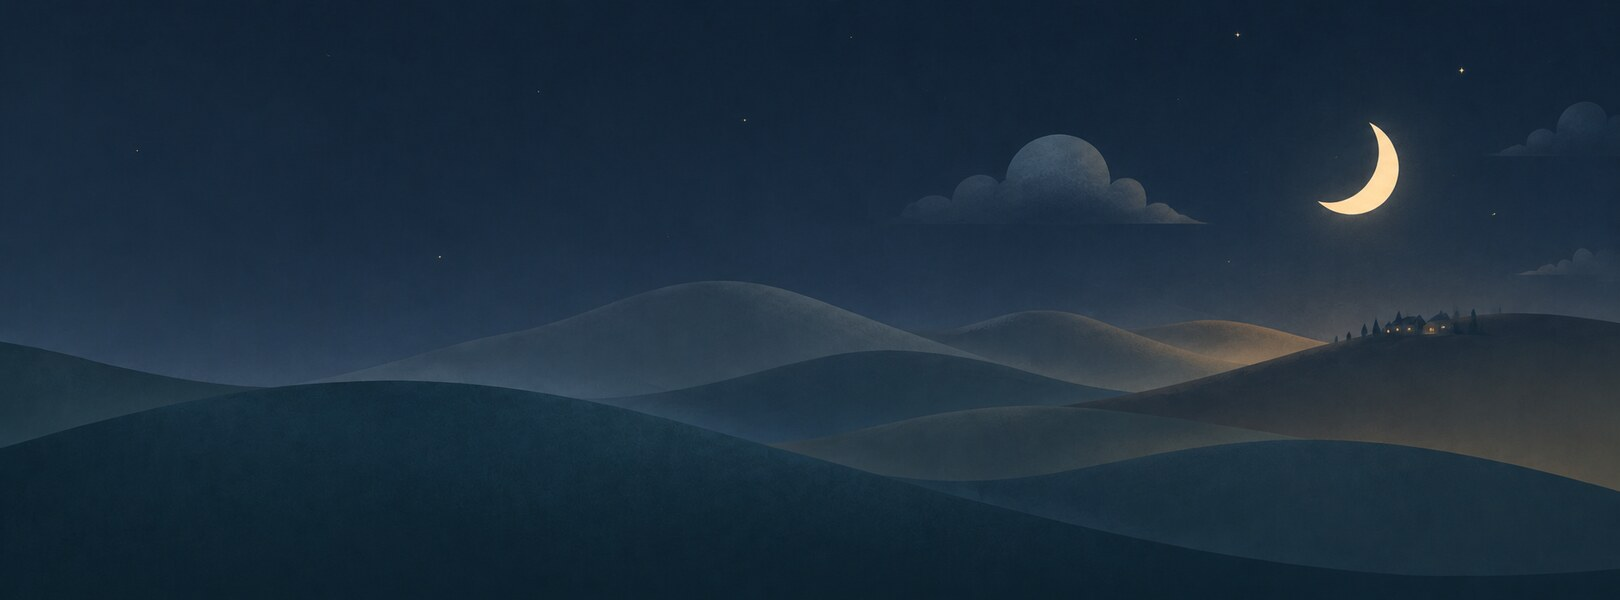
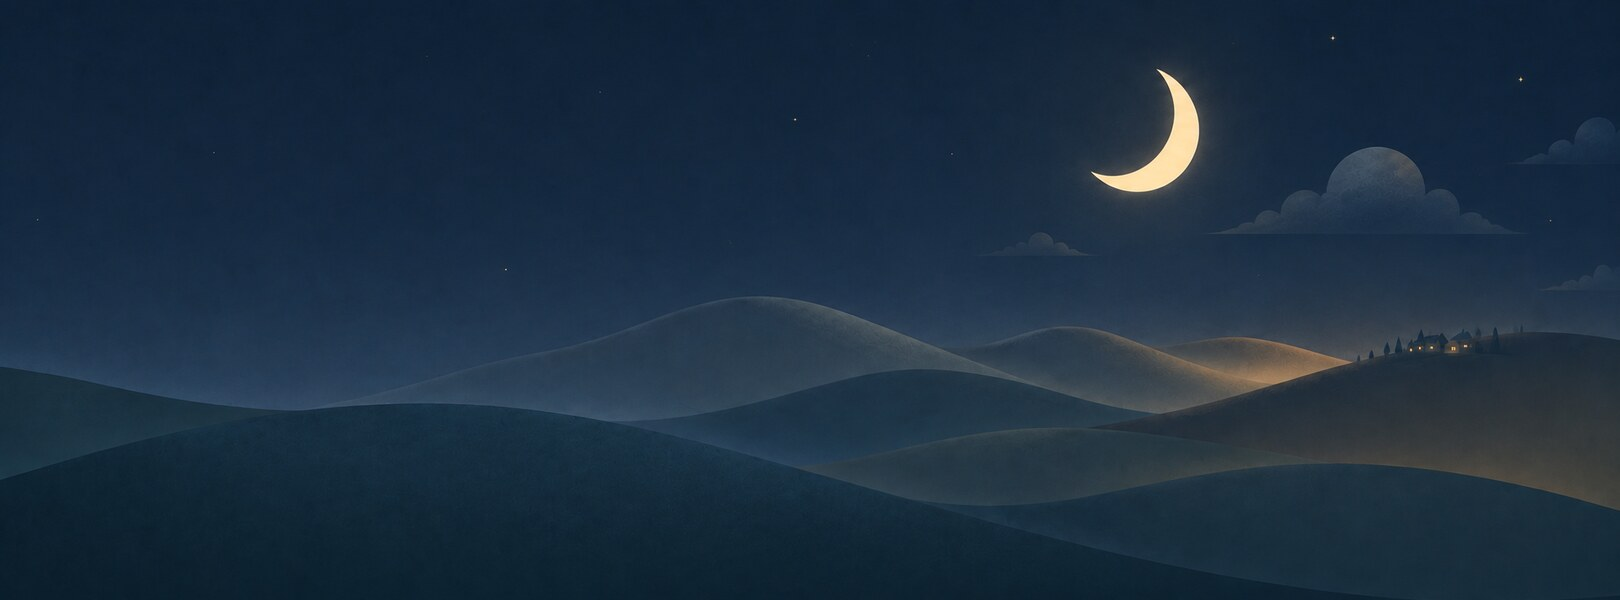
Simplify tabs and improve evening header composition

diff --git a/apps/mobile/app/(tabs)/_layout.tsx b/apps/mobile/app/(tabs)/_layout.tsx
@@ -1,6 +1,6 @@
 import { Ionicons } from '@expo/vector-icons';
 import { Redirect, Tabs, router } from 'expo-router';
-import { Pressable, StyleSheet, View, useWindowDimensions } from 'react-native';
+import { Pressable, StyleSheet, View } from 'react-native';
 import { useAuthStore } from '@/data/auth-store';
 import { useOnboardingStore } from '@/data/onboarding-store';
 import { colors } from '@/theme';
@@ -8,18 +8,18 @@ import { colors } from '@/theme';
 const iconFor = (name: string, focused: boolean) => { const icons: Record<string, keyof typeof Ionicons.glyphMap> = { home: focused ? 'home' : 'home-outline', recipes: focused ? 'book' : 'book-outline', community: focused ? 'people' : 'people-outline', plan: focused ? 'calendar' : 'calendar-outline', groceries: focused ? 'basket' : 'basket-outline' }; return icons[name] ?? 'ellipse-outline'; };
 
 export default function TabLayout() {
-  const { ready, user } = useAuthStore(); const { ready: onboardingReady, profile } = useOnboardingStore(); const { width } = useWindowDimensions();
+  const { ready, user } = useAuthStore(); const { ready: onboardingReady, profile } = useOnboardingStore();
   if (!ready || !onboardingReady) return <View style={styles.loading} />;
   if (!user) return <Redirect href='/onboarding/account' />; if (!profile.completed) return <Redirect href='/onboarding/profile' />;
   return <Tabs screenOptions={({ route }) => ({ headerShown: false, tabBarActiveTintColor: colors.coral, tabBarInactiveTintColor: colors.muted, tabBarStyle: styles.bar, tabBarLabelStyle: styles.label, tabBarIcon: ({ color, focused }) => <Ionicons color={color} name={iconFor(route.name, focused)} size={22} /> })}>
     <Tabs.Screen name='home' options={{ title: 'Home' }} /><Tabs.Screen name='recipes' options={{ title: 'Recipes' }} />
-    <Tabs.Screen name='capture-button' options={{ title: '', tabBarButton: () => <View pointerEvents='box-none' style={[styles.captureWrap, { left: width / 2 - 29 }]}><Pressable accessibilityLabel='Open Capture Studio' accessibilityRole='button' onPress={() => router.push('/capture')} style={styles.capture}><Ionicons color={colors.white} name='add' size={30} /></Pressable></View> }} />
-    <Tabs.Screen name='community' options={{ title: 'Community' }} /><Tabs.Screen name='plan' options={{ title: 'Plan' }} />
+    <Tabs.Screen name='capture-button' options={{ title: '', tabBarButton: () => <View style={styles.captureWrap}><Pressable accessibilityLabel='Open Capture Studio' accessibilityRole='button' onPress={() => router.push('/capture')} style={styles.capture}><Ionicons color={colors.white} name='add' size={30} /></Pressable></View> }} />
+    <Tabs.Screen name='community' options={{ href: null }} /><Tabs.Screen name='plan' options={{ title: 'Plan' }} /><Tabs.Screen name='groceries' options={{ title: 'Groceries' }} />
   </Tabs>;
 }
 const styles = StyleSheet.create({
   loading: { flex: 1, backgroundColor: colors.background },
   bar: { height: 78, paddingBottom: 12, paddingTop: 8, backgroundColor: colors.paperRaised, borderTopColor: colors.line, shadowColor: colors.charcoal, shadowOpacity: 0.08, shadowRadius: 12, shadowOffset: { width: 0, height: -4 }, elevation: 8 },
-  label: { fontSize: 11, fontWeight: '700' }, captureWrap: { position: 'absolute', top: 0, width: 58, height: 64, alignItems: 'center', zIndex: 20 },
+  label: { fontSize: 11, fontWeight: '700' }, captureWrap: { flex: 1, alignItems: 'center', justifyContent: 'center' },
   capture: { marginTop: -18, width: 58, height: 58, borderRadius: 29, alignItems: 'center', justifyContent: 'center', backgroundColor: colors.coral, borderWidth: 4, borderColor: colors.background, shadowColor: colors.coralDark, shadowOpacity: 0.28, shadowRadius: 10, shadowOffset: { width: 0, height: 5 }, elevation: 8 }
 });
